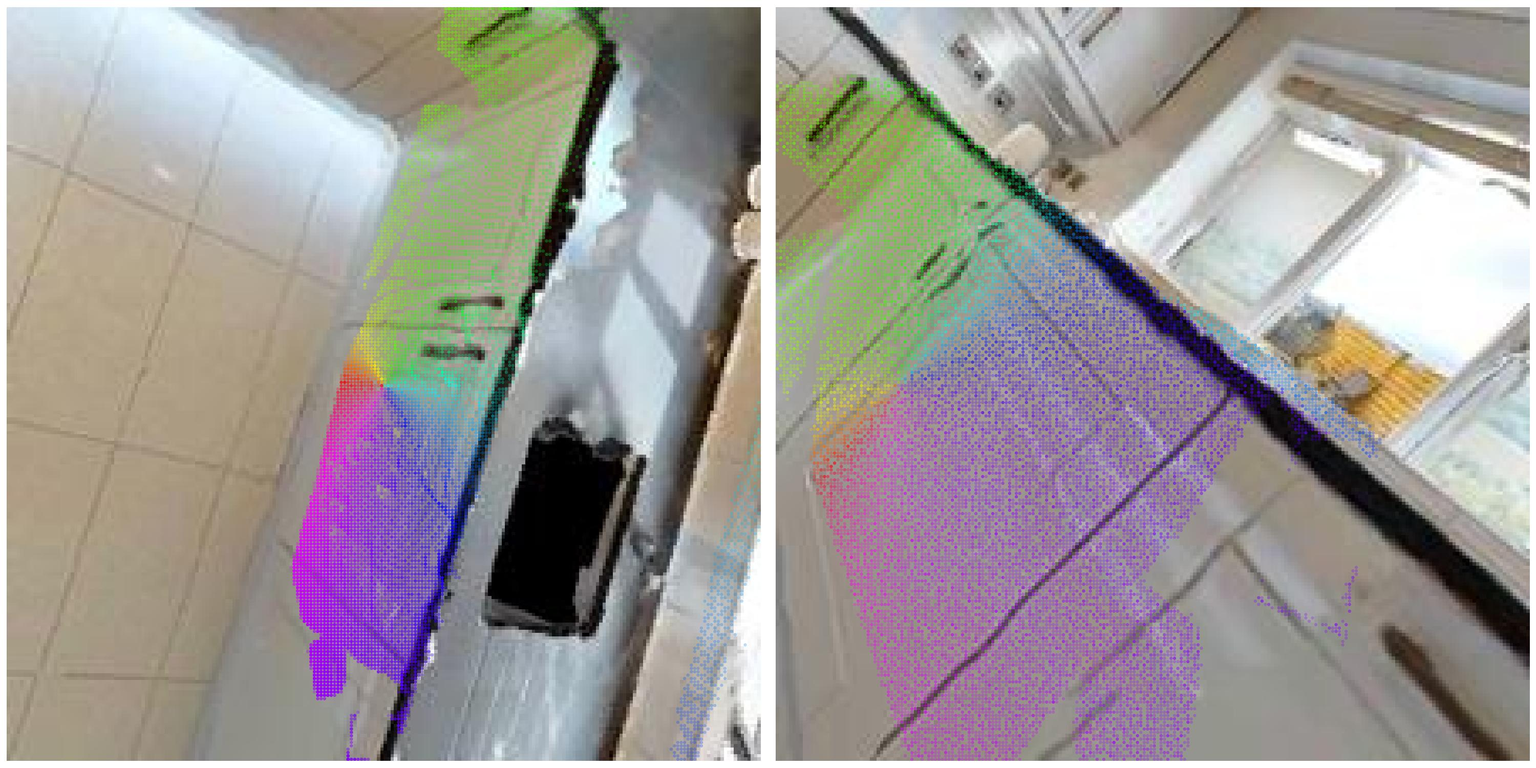
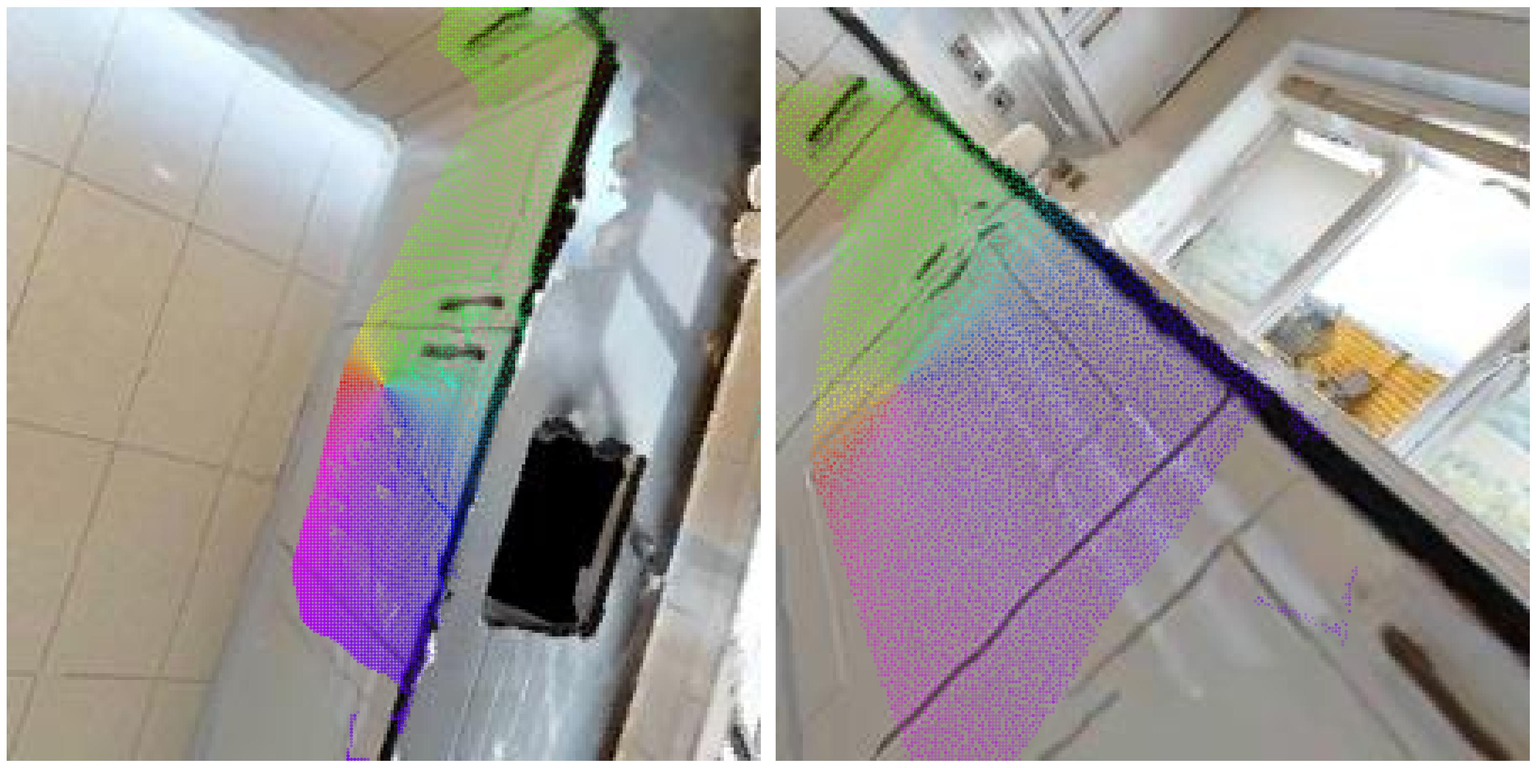
WIP: Fixing occlusion handling

diff --git a/functions.py b/functions.py
@@ -157,54 +157,38 @@ def project_to_image(point_cloud, intrinsics, T_cam_world):
 
     return pixel_coords, point_cloud_cam_frame
 
-def remove_border_points(ps_0, pcl_1_frame_cam0, pcl_0_frame_cam1, intrinsics_0, depth_0, depth_1, depth_threshold=0.1):
-
+def filter_points(ps_0, intrinsics_0, pcl_1_frame_cam0, pcl_0_frame_cam1, depth_0, depth_threshold=0.1):
     """
-    Filters out points based on their position within the image boundaries and checks for occlusion or depth inconsistencies 
-    between corresponding points in two camera views.
+    Filters out points that fall outside image boundaries, are behind cameras, or are occluded.
 
-    The function performs the following steps:
-    1. Filters points that lie within the valid image boundaries of the first camera.
-    2. Ensures that points are in front of both cameras (based on their depth in the camera frames).
-    3. Filters out occluded points by comparing their depth values with a provided threshold.
-    
     Args:
         ps_0 (torch.Tensor): A tensor of shape (N, 2) representing pixel coordinates in the first image.
-        pcl_1_frame_cam0 (torch.Tensor): A tensor of shape (N, 3) representing 3D points in the first camera frame.
-        pcl_0_frame_cam1 (torch.Tensor): A tensor of shape (N, 3) representing 3D points in the second camera frame.
-        intrinsics_0 (tuple): A tuple containing the intrinsic parameters of the first camera [f_x, f_y, W, H]
-        depth_0 (torch.Tensor): A tensor of shape (H, W) representing the depth map of the first camera.
-        depth_1 (torch.Tensor): A tensor of shape (H, W) representing the depth map of the second camera.
-        depth_threshold (float, optional): A threshold to account for depth inconsistencies between corresponding points. 
+        intrinsics_0 (tuple or list): Camera intrinsics [f_x, f_y, W, H] for the first camera.
+        pcl_1_frame_cam0 (torch.Tensor): (N, 3) point cloud transformed from camera 1 to camera 0's frame.
+        pcl_0_frame_cam1 (torch.Tensor): (N, 3) point cloud transformed from camera 0 to camera 1's frame.
+        depth_0 (torch.Tensor): A tensor of shape (N,) representing depth values of the first camera's image.
+        depth_threshold (float, optional): A threshold to account for depth errors when checking occlusion. 
                                            Defaults to 0.1.
 
     Returns:
-        torch.Tensor: A tensor of shape (N,) representing a boolean mask where `True` indicates a point is valid 
-                      (i.e., within the image boundaries, not behind the camera, and not occluded by depth inconsistencies).
-
+        torch.Tensor: A boolean mask of shape (N,) indicating which points are valid.
+    
     Notes:
-        - The function ensures that the points lie within the image dimensions of the first camera.
-        - Points that lie behind either camera (i.e., have a negative depth) are filtered out.
-        - Occlusion is detected by comparing the depth values of corresponding points between the two cameras, 
-          using a specified threshold to account for possible depth errors.
+        - Points outside the image width/height are removed.
+        - Points behind either camera (positive z-coordinates) are removed.
+        - Points occluded in the first camera's view (i.e., depth at projected pixel is smaller than the 
+          actual camera-to-point distance) are removed.
     """
     _, _, W, H = intrinsics_0
 
     depth_0 = depth_0.flatten()
-    depth_1 = depth_1.flatten()
 
-    pos_mask = (
+    mask = (
     (ps_0[:, 0] >= 0) & (ps_0[:, 0] < W) & # Within image width
     (ps_0[:, 1] >= 0) & (ps_0[:, 1] < H) & # Within image height
-    (pcl_0_frame_cam1[:,2] < 0) & (pcl_1_frame_cam0[:,2] < 0) #& # Infront of both cameras
-    #(depth_0 > torch.norm(pcl_1_frame_cam0, dim=1) + depth_threshold) & (depth_1 > torch.norm(pcl_0_frame_cam1, dim=1) + depth_threshold)
-    #(depth_0 - depth_threshold < torch.norm(pcl_1_frame_cam0, dim=1)) & (torch.norm(pcl_1_frame_cam0, dim=1) < depth_0 + depth_threshold) & 
-    #(depth_1 - depth_threshold < torch.norm(pcl_0_frame_cam1, dim=1)) & (torch.norm(pcl_0_frame_cam1, dim=1) < depth_1 + depth_threshold)
+    (pcl_0_frame_cam1[:,2] < 0) & (pcl_1_frame_cam0[:,2] < 0) & # Infront of both cameras
+    (depth_0 + depth_threshold >= torch.norm(pcl_1_frame_cam0, dim=1)) # Not occluded
     )
-
-    occluded_mask = ((torch.norm(pcl_1_frame_cam0, dim=1) > depth_0 + depth_threshold) & (torch.norm(pcl_0_frame_cam1, dim=1) > depth_1 + depth_threshold))
-
-    mask = pos_mask & ~occluded_mask
 
     return mask
 

diff --git a/challenge.py b/challenge.py
@@ -40,7 +40,7 @@ from functions import (
     quat_to_4x4_homog,
     transform_to_world,
     project_to_image,
-    remove_border_points,
+    filter_points,
     visualise_cams_clouds
 )
 
@@ -258,7 +258,7 @@ def generate(idx):
 
     # 3.5 Mask points that lie outside the image
 
-    mask = remove_border_points(ps_0, pcl_1_frame_cam0, pcl_0_frame_cam1, intrinsics_0, depth_0, depth_1)
+    mask = filter_points(ps_0, intrinsics_0, pcl_1_frame_cam0, pcl_0_frame_cam1, depth_0, depth_threshold=0.1)
     common_pcl = transformed_pcl_1[mask]
 
     ##############
